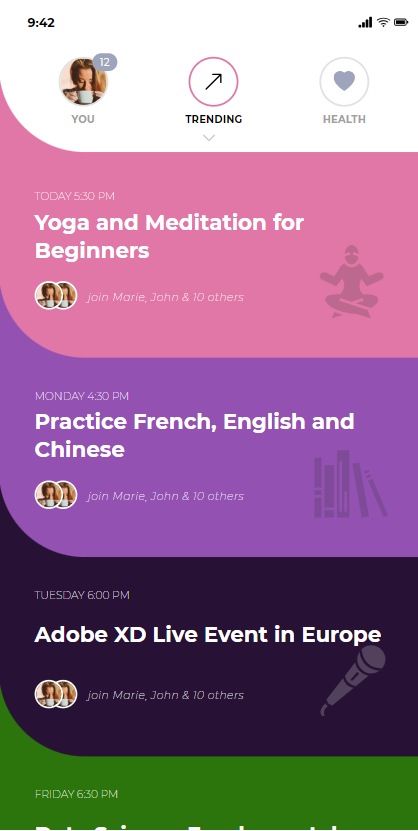
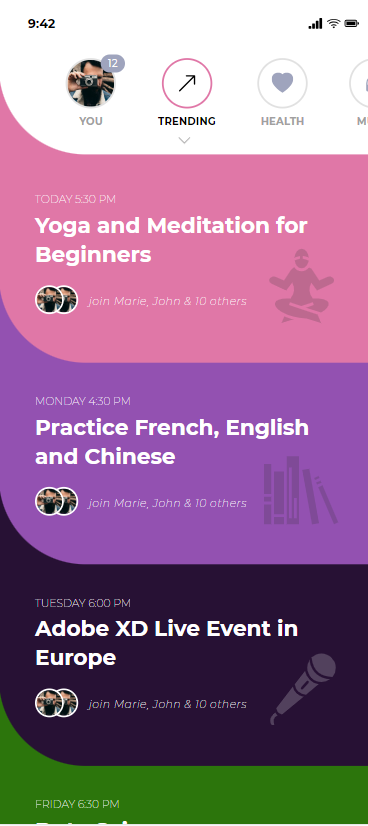
Update title style and README.MD smartphone image

diff --git a/src/components/Course/index.tsx b/src/components/Course/index.tsx
@@ -56,7 +56,7 @@ function Course({ course, topOffset }: CourseProps) {
       </p>
 
       {/* Course title */}
-      <h2 className="font-bold h-16 flex items-center text-2xl md:text-center mr-4 md:mr-0'">
+      <h2 className="font-bold h-16 flex items-center text-2xl md:text-center">
         {course.title}
       </h2>
 
